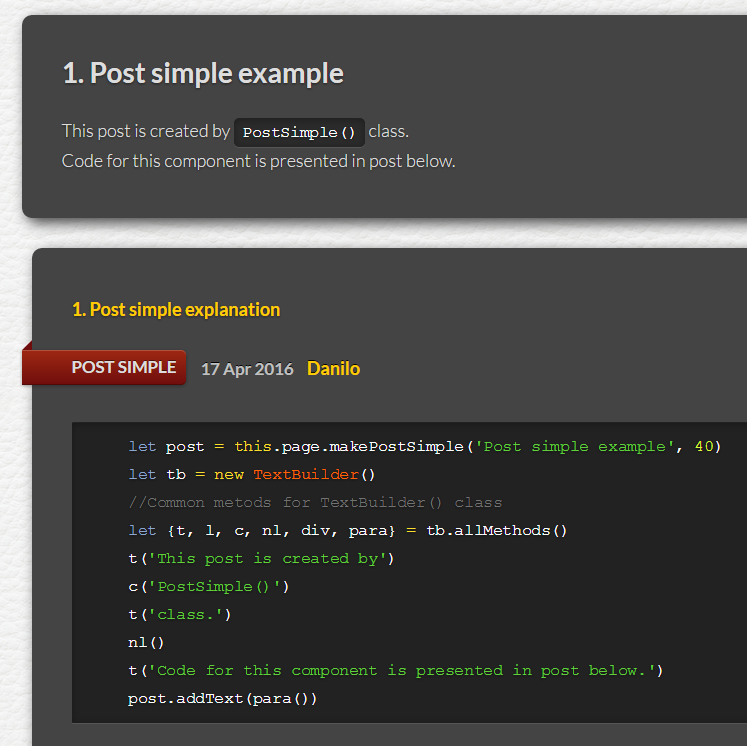
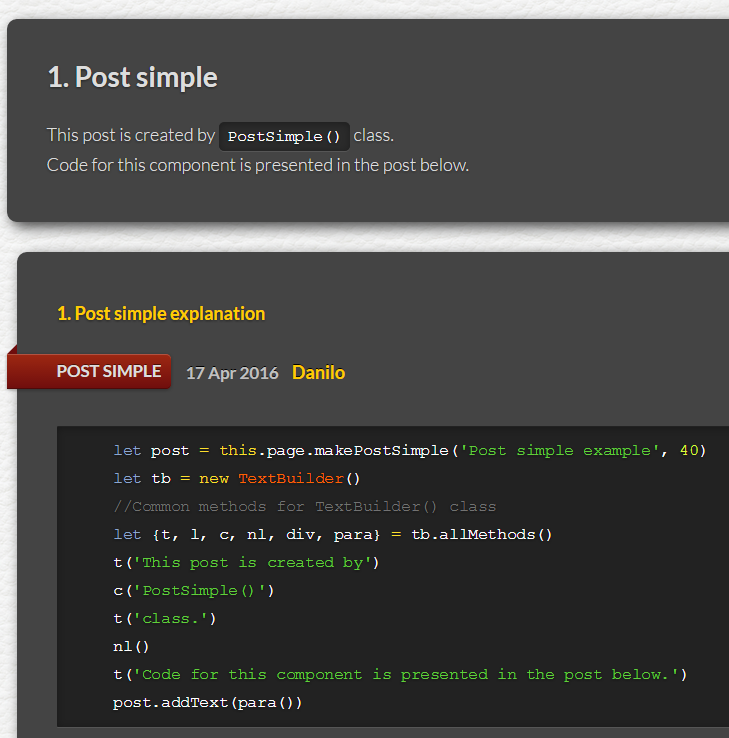
Spelling correction

diff --git a/js/page_0.js b/js/page_0.js
@@ -26,9 +26,9 @@ class Page_0 extends PageContent{
                                             "Some Image",
                                             70 )
 
-        let text = `<p style="color: #424242; margin-top: 20px;">
-            This is code for header and title above. That simple!<br>
-            To create your blog, small site or documentation, download this site and overwrite content.
+        let text = `<p style="color: #424242; margin-top: 0px;">
+            This is code for the header and the title above. That simple!<br>
+            To create your blog, a small site or documentation, download this site and overwrite the content.
         </p>`
 
         imgAndTxt.text(text)
@@ -40,11 +40,11 @@ class Page_0 extends PageContent{
         let threePost =  this.page.makePostThreeColums('Edit anywhere', 'Run anywhere', 'Save anywhere')
 
         let text_builder_1 = threePost.getTextBuilderOne()
-        let txt_1 = 'Browser and text editor are all that you need to create site like this'
+        let txt_1 = 'A browser and a text editor are all that you need to create a site like this'
         text_builder_1.text(txt_1)
 
         let text_builder_2 = threePost.getTextBuilderTwo()
-        let txt_2 = 'No server needed! <br>You can run this site from file or form any Web server.'
+        let txt_2 = 'No server needed! <br>You can run this site from file or from any Web server.'
         text_builder_2.text(txt_2)
 
         let text_builder_3 = threePost.getTextBuilderThree()
@@ -64,11 +64,11 @@ class Page_0 extends PageContent{
             nl: .newLine(); div: .getText(); para: .getTextAsParagraph()
         */
 
-        t('I was searching for good looking static site generator for quite some time.')
+        t('I was searching for a good looking static site generator for quite some time.')
         l('Jekyll', 'https://jekyllrb.com')
-        t('static site generator was a most impressive for me.')
+        t('static site generator is most impressive for me.')
         c("css/screen.css")
-        t(' style is Jekyll work with little modification. (MIT licence)')
+        t(` style is Jekyll's work with small modifications. (MIT licence)`)
         nl()
 
         t('This beautiful and readable fonts: ')
@@ -79,20 +79,20 @@ class Page_0 extends PageContent{
         nl()
         nl()
 
-        t("You don't need write style or components. Use existing one and take care about your content.")
+        t("You don't need to create style or components. Use the existing one and focus on your content.")
 
         stye_post.addText(para())
     }
 
     post_3() {
 
-        let cnsPost = this.page.makePostFancyCode(   "Fancy components",
+        let post = this.page.makePostFancyCode(   "Fancy components",
                                                 "Boring console looking great")
-        cnsPost.addLine('~', '$', 'gem install jekyll')
-        cnsPost.addLine('~', '$', 'jekyll new my-awesome-site')
-        cnsPost.addLine('~', '$', 'cd my-awesome-site')
-        cnsPost.addComment('# This is example')
-        cnsPost.addComment("# Site Gen JS don't use console at all")
+        post.addLine('~', '$', 'gem install jekyll')
+        post.addLine('~', '$', 'jekyll new my-awesome-site')
+        post.addLine('~', '$', 'cd my-awesome-site')
+        post.addComment('# This is an example')
+        post.addComment("# Site Gen JS doesn't use console at all")
     }
 
     post_4() {
@@ -110,7 +110,7 @@ class Page_0 extends PageContent{
         t.link('Rainbow', 'https://github.com/ccampbell/rainbow')
         t.text('syntax highlighter is embedded in Site Gen JS.')
         t.newLine()
-        t.text('Code for fancy component above:')
+        t.text('Code for the fancy component above:')
 
         post.addText('<p>' + t.getText() + '</p>')
 
@@ -122,8 +122,8 @@ class Page_0 extends PageContent{
     post.addLine('~', "$", 'gem install jekyll')
     post.addLine('~', "$", 'jekyll new my-awesome-site')
     post.addLine('~', "$", 'cd my-awesome-site')
-    post.addComment('# This is example')
-    post.addComment("# Site Gen JS don't use console at all")
+    post.addComment('# This is an example')
+    post.addComment("# Site Gen JS doesn't use console at all")
 }
 fancyComponent()`
 
@@ -161,7 +161,7 @@ fancyComponent()`
         c('cnsPost.addCodeLine')
         t(`class`)
         c('Code')
-        t(`are used for manual code highlighting. You can skip to next color parameter with`)
+        t(`is used for manual code highlighting. You can skip to next color parameter with`)
         c(`'',`)
         nl()
 
@@ -181,13 +181,13 @@ fancyComponent()`
         let tb = new TextBuilder()
         let {t, l, c, nl, div, para} = tb.allMethods()
 
-        t('All content in this page are saved in')
+        t('All content in this page is saved in')
         c("main.js"); t('and'); c("page_0.js");
         t('files.')
-        t('There is no need for css, html or any markup language. Existing css is great, take care about your content.')
+        t('There is no need for CSS, HTML or any other markup language. The existing CSS is great, focus on your content.')
         nl()
-        t('No: database, npm, Angular, JQuery, node.js, Babel, Browserify, Promise, back end ...')
-        t('All components gets data dynamicaly and self inject as ')
+        t('No database, npm, Angular, JQuery, node.js, Babel, Browserify, Promise, back end ...')
+        t('All components get data dynamically and self inject as ')
         c('&lt;section&gt;...&lt;/section&gt;')
         t('into page body element using client processor.'); nl()
         t('With basic ECMAScript 6 knowledge, there is no learning curve.')
@@ -215,8 +215,6 @@ fancyComponent()`
         let tb = new TextBuilder()
         let {t, l, c, nl, div, para} = tb.allMethods()
 
-        t('... and more.')
-        nl()
         l("SiteGenJS", "https://github.com/DaniloBabovic/SiteGenJS")
         t('is open and')
         l('MIT.', 'https://opensource.org/licenses/MIT')
@@ -224,7 +222,7 @@ fancyComponent()`
         nl()
         t('For start, you can')
         l("download", "https://github.com/DaniloBabovic/SiteGenJS")
-        t('and replace content of this page with your content.')
+        t('and replace the content of this page with your content.')
         post.addText(para())
     }
 }

diff --git a/js/page_1.js b/js/page_1.js
@@ -3,7 +3,7 @@ class Page_1 extends PageContent{
     constructor(siteGen) {
 
         super(siteGen)
-        this.page.makeTitle("Example to code manual", 'rgba(120, 0, 0, 1)')
+        this.page.makeTitle("Post to code manual", 'rgba(120, 0, 0, 1)')
 
         this.post_0()
         this.post_0_explain()
@@ -19,14 +19,14 @@ class Page_1 extends PageContent{
 
     post_0() {
 
-        let post = this.page.makePostSimple('1. Post simple example', 40)
+        let post = this.page.makePostSimple('1. Post simple', 40)
         let {t, l, c, nl, div, para} = new TextBuilder().allMethods()
 
         t('This post is created by')
         c('PostSimple()')
         t('class.')
         nl()
-        t('Code for this component is presented in post below.')
+        t('Code for this component is presented in the post below.')
         post.addText(para())
     }
 
@@ -44,13 +44,13 @@ class Page_1 extends PageContent{
         var code = new Code('js')
         let code_txt = `    let post = this.page.makePostSimple('Post simple example', 40)
     let tb = new TextBuilder()
-    //Common metods for TextBuilder() class
+    //Common methods for TextBuilder() class
     let {t, l, c, nl, div, para} = tb.allMethods()
     t('This post is created by')
     c('PostSimple()')
     t('class.')
     nl()
-    t('Code for this component is presented in post below.')
+    t('Code for this component is presented in the post below.')
     post.addText(para())`
 
         code.add(code_txt)
@@ -59,15 +59,15 @@ class Page_1 extends PageContent{
 
         let {t, l, c, nl, div, para} = new TextBuilder().allMethods()
 
-        t('First line is for title and top margin.'); nl()
+        t('The first line is for the title and top margin.'); nl()
         c('let tb = new TextBuilder()')
-        t('TextBuilder purpose is used to transform text into html '); nl()
+        t('The purpose of TextBuilder is to transform text into html '); nl()
 
-        c("t('...')"); t('is short named method: TextBuilder.text("text") to insert plain text');nl()
-        c("c('...')"); t('is short named method: TextBuilder.code("text") to highlight code in text');nl()
+        c("t('...')"); t('is a short named method TextBuilder.text("text") used to insert plain text');nl()
+        c("c('...')"); t('is a short named method TextBuilder.code("text") used to highlight code in text');nl()
         c("nl()"); t('new line');nl()
-        c("div()"); t('to inject into post as div');nl()
-        c("para()"); t('to inject into post as paragraph');nl()
+        c("div()"); t('to inject as div');nl()
+        c("para()"); t('to inject as paragraph');nl()
 
         t('TextBuilder is the most used class.'); nl()
         t('Short methods make text content readable.')
@@ -87,7 +87,7 @@ class Page_1 extends PageContent{
                                         'https://github.com/DaniloBabovic/SiteGenJS'
                                     )
         post.addText('Hello world!')
-        post.addText('<br><br>Code for this component is presented in post below.')
+        post.addText('<br><br>Code for this component is presented in the post below.')
     }
 
     post_1_explain() {
@@ -111,7 +111,7 @@ class Page_1 extends PageContent{
                         'https://github.com/DaniloBabovic/SiteGenJS'
                     )
     post.addText('Hello world!')
-    post.addText('<br><br>Code for this component is presented in post below.')`
+    post.addText('<br><br>Code for this component is presented in the post below.')`
 
         code.add(code_txt)
         var txt = code.getText()
@@ -119,7 +119,7 @@ class Page_1 extends PageContent{
 
         let {t, l, c, nl, div, para} = new TextBuilder().allMethods()
 
-        t('Header in this kind of post is link as well.'); nl()
+        t('Header in this kind of post is a link as well.'); nl()
         c(".setPostInfo(infoText = 'infoText', dateString = '', autor = '', autorLink = '')")
         t('has optional parameters except infoText.'); nl()
         t('You can write HTML in every type of post, like')
@@ -141,9 +141,9 @@ class Page_1 extends PageContent{
                                             70 )
 
         let text = `<p style="color: #424242; margin-top: 20px;">
-            This is page is saved in the page_1.js file.<br>
-            Code for this image and text are in this.post_2() method.
-            Code for this component is presented in post below.
+            This page is saved in the page_1.js file.<br>
+            Code for this image and text is in this.post_2() method.
+            Code for this component is presented in the post below.
         </p>`
 
         imgAndTxt.text(text)
@@ -172,9 +172,9 @@ class Page_1 extends PageContent{
                                         70 )
 
     let text = '<p style="color: #424242; margin-top: 20px;">
-        This is page is saved in the page_1.js file.<br>
-        Code for this image and text are in this.post_2() method.
-        Code for this component is presented in post below.
+        This page is saved in the page_1.js file.<br>
+        Code for this image and text is in this.post_2() method.
+        Code for this component is presented in the post below.
     </p>'
 
     imgAndTxt.text(text)
@@ -187,9 +187,9 @@ class Page_1 extends PageContent{
         let {t, l, c, nl, div, para} = new TextBuilder().allMethods()
 
         c('ImageAndText');
-        t('class purpose is to make HTML for component above.')
+        t('class purpose is to make HTML for the component above.')
         c('left')
-        t('parameter is side for image.')
+        t('parameter is the side for the image.')
         c('PostBase()')
         t('is the simplest post in the Site Gen JS.')
         post.addText(para())
@@ -202,8 +202,8 @@ class Page_1 extends PageContent{
         let {t, l, c, nl, div, para} = new TextBuilder().allMethods()
 
         t('Take a look at page_1.js'); nl()
-        t('That file contain this page.'); nl()
-        t('This will be enough for start to write your site.'); nl(); nl()
+        t('That file contains this page.'); nl()
+        t('This will be enough for start to make your site.'); nl(); nl()
         t('Happy coding!')
         post.addText(para())
     }

diff --git a/js/page_2.js b/js/page_2.js
@@ -11,15 +11,15 @@ class Page_2 extends PageContent{
 
         let post = this.page.makePostSimple('Reasons:', 40)
         let {t, l, c, nl, div, para} = new TextBuilder().allMethods()
-        
+
         t('With ECMAScript 6 it is possible.'); nl()
-        t('ECMAScript 6 reduce code footprint seriously. Now we can realy see page text content in the code.');nl();nl()
+        t('ECMAScript 6 reduces code footprint seriously. Now we can really see page text content in the code.');nl();nl()
         t('Main reasons:'); nl()
         t(`When I need to write documentation, I don't want to waste time for tools setup.`); nl()
         post.addText(para())
 
         let note = new Note('info', 'Off line')
-        note.para('I want to read documentation in offline enviroments.')
+        note.para('I want to read documentation in offline environments.')
         post.addText(note.getText())
         let noteTip = new Note('tip', 'Less code')
         noteTip.para('This page has less then 30 lines of code including content.')

diff --git a/js/page_3.js b/js/page_3.js
@@ -16,7 +16,7 @@ class Page_3 extends PageContent{
 
         l('GitHub', 'https://github.com/DaniloBabovic/SiteGenJS')
         t('is the main download place.'); nl()
-        t('Feel free to send me few thoughts: sitegenjs@gmail.com')
+        t('Feel free to send me a few thoughts: sitegenjs@gmail.com')
         stye_post.addText(para())
     }
 }

diff --git a/README.md b/README.md
@@ -1,10 +1,3 @@
-Under construction :)
-======================
-
-Testing
-===========
-
-
 Site Gen JS
 ===========
 
@@ -15,12 +8,12 @@ Site Gen JS
 
 #### Edit anywhere ####
 
-Browser and text editor are all that you need to create site.
+A browser and a text editor are all that you need to create a site.
 
 #### Run anywhere ####
 
 No server needed!
-You can run this site from file or form any Web server.
+You can run this site from file or from any Web server.
 
 #### Save anywhere ####
 
@@ -34,8 +27,15 @@ You can save and run index.html from flash drive, phone or tablet storage.
 
 #### Only JS ####
 
-All content of the web page are saved in  main.js and  page_xxx.js files. There is no need for css, html or any markup language. Existing css is great, take care about your content.
-No: database, npm, Angular, JQuery, node.js, Babel, Browserify, Promise, back end ... All components gets data dynamicaly and self inject as &lt;section&gt;...&lt;/section&gt; into page body element using client processor.
+All content in Web page is saved in main.js and page_0.js files.
+
+There is no need for CSS, HTML or any other markup language. The existing CSS is great, focus on your content.
+
+No database, npm, Angular, JQuery, node.js, Babel, Browserify, Promise, back end ...
+
+All components get data dynamically and self inject as  &lt;section&gt;...&lt;/section&gt; into page body element using client processor.
+
+
 With basic ECMAScript 6 knowledge, there is no learning curve.
 However, you can write HTML instead text if you like or use all those libs.
 Our intention is to give you a choice NOT to use it, to make your site less dependable.
